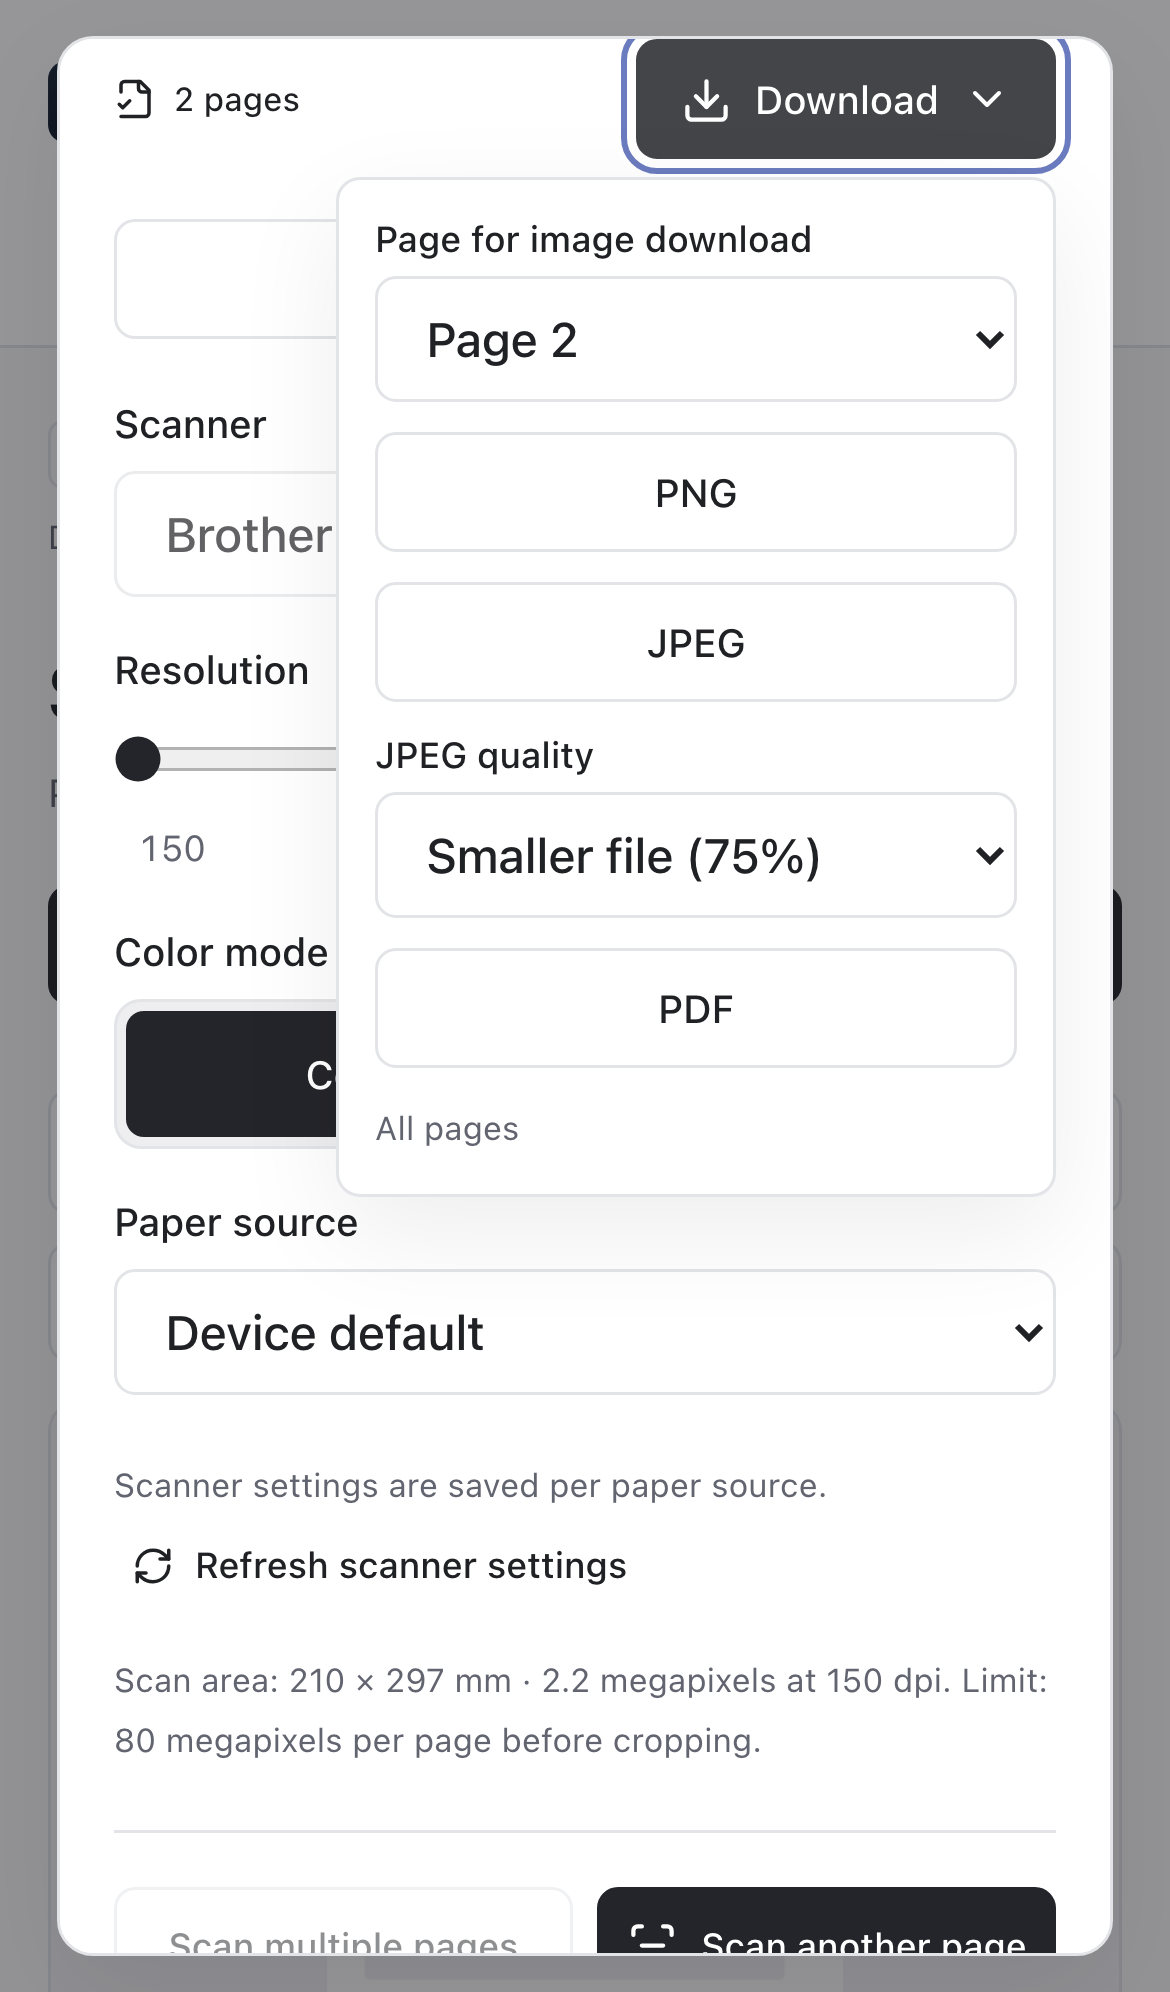
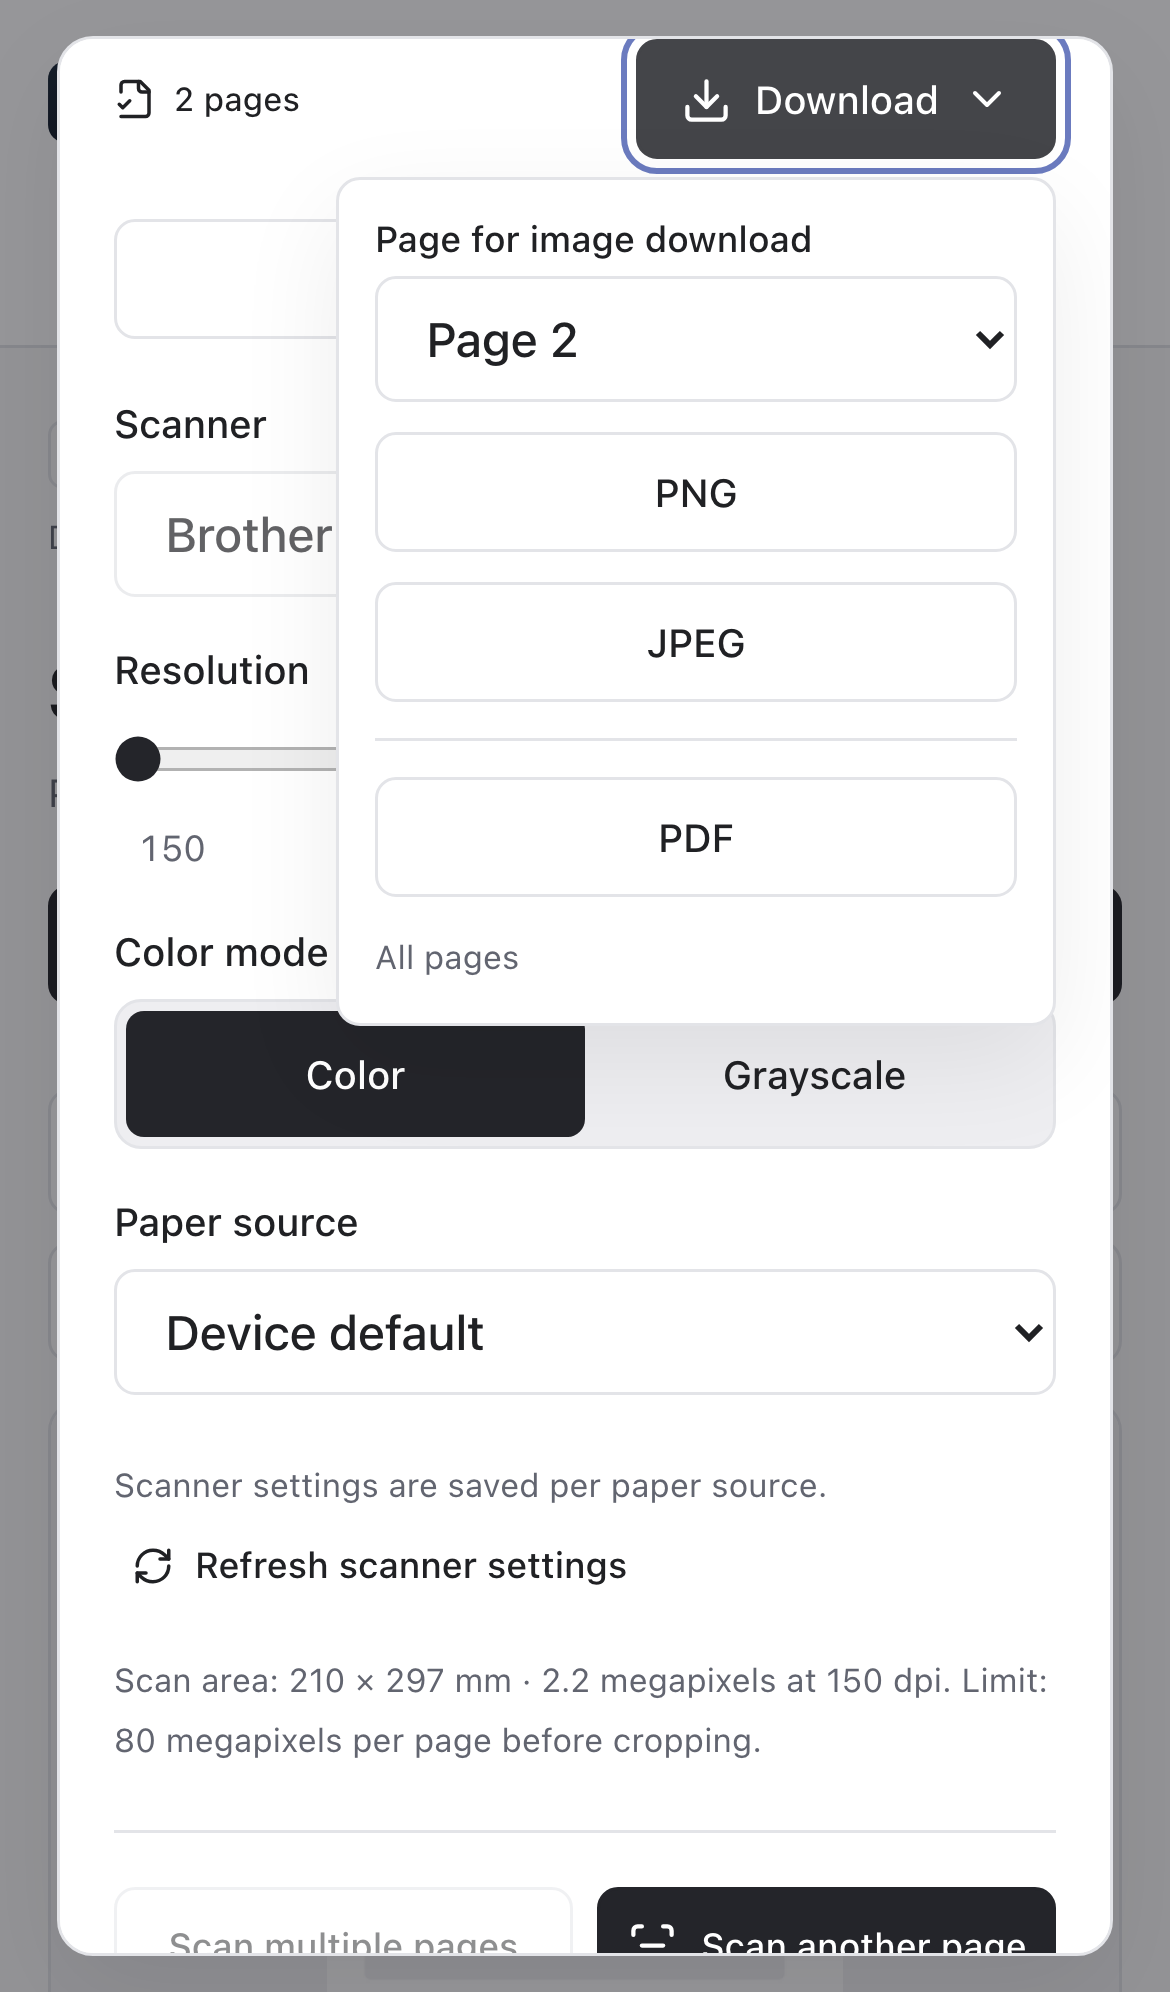
ui: simplify scan download options and separate PDF export

Changed region(s): [[0.2769, 0.3735, 0.8923, 0.5914]]

diff --git a/apps/client/src/ScanDownload.tsx b/apps/client/src/ScanDownload.tsx
@@ -7,7 +7,6 @@ import s from './App.module.css';
 export function ScanDownload({ job, disabled }: { job: Job; disabled: boolean }) {
   const [open, setOpen] = useState(false);
   const [selected, setSelected] = useState('');
-  const [quality, setQuality] = useState('90');
   const root = useRef<HTMLDivElement>(null);
   const button = useRef<HTMLButtonElement>(null);
   const id = useId();
@@ -73,23 +72,14 @@ export function ScanDownload({ job, disabled }: { job: Job; disabled: boolean })
             <a
               className={s.secondary}
               href={
-                disabled
-                  ? undefined
-                  : `/api/scans/${job.id}/pages/${pageId}/export?format=jpeg&quality=${quality}`
+                disabled ? undefined : `/api/scans/${job.id}/pages/${pageId}/export?format=jpeg`
               }
               download
               aria-label={t('Download JPEG')}
             >
               JPEG
             </a>
-            <label>
-              {t('JPEG quality')}
-              <select value={quality} onChange={(event) => setQuality(event.target.value)}>
-                <option value="90">{t('High (90%)')}</option>
-                <option value="75">{t('Smaller file (75%)')}</option>
-                <option value="100">{t('Maximum (100%)')}</option>
-              </select>
-            </label>
+            <hr className={s.scanDownloadDivider} />
           </>
         )}
         <a

diff --git a/e2e/scan-image-download.spec.ts b/e2e/scan-image-download.spec.ts
@@ -32,7 +32,6 @@ test('download dropdown exports a selected page or the full PDF (demo scanner)',
   await expect(page.getByRole('dialog')).toBeVisible();
   await button.click();
   await page.getByLabel('Page for image download').selectOption({ label: 'Page 2' });
-  await page.getByLabel('JPEG quality').selectOption('75');
   await page.screenshot({ path: `test-results/${info.project.name}-scan-download.png` });
   const axe = await new AxeBuilder({ page }).analyze();
   expect(axe.violations.filter((v) => ['serious', 'critical'].includes(v.impact ?? ''))).toEqual(

diff --git a/apps/client/src/App.module.css b/apps/client/src/App.module.css
@@ -2140,3 +2140,10 @@
   gap: 5px;
   font-size: 12px;
 }
+
+.scanDownloadDivider {
+  width: 100%;
+  margin: 2px 0;
+  border: 0;
+  border-top: 1px solid var(--line);
+}

diff --git a/docs/usage.md b/docs/usage.md
@@ -32,7 +32,7 @@ Single-sided, long-edge duplex, and short-edge duplex are offered only when the 
 
 Review, crop, rotate, reorder, or remove scanned pages, download or print the PDF, or scan another page. A scan must keep at least one page; delete the scan from Scans to remove the entire document. The sample document is clearly marked as simulated; hardware mode uses the actual scanner output. See the multi-page editor with bounded thumbnails on [desktop](images/scan-thumbnails.png) and [mobile](images/scan-thumbnails-mobile.png).
 
-Use the **Download** button and its arrow to choose **PNG**, **JPEG**, or **PDF**. PNG and JPEG export one selected page with its saved crop and rotation at full resolution; choose the page in the dropdown for multi-page scans. PNG is lossless and preserves transparency. JPEG uses a white background and offers 75%, 90% (default), or 100% quality. PDF downloads the entire document. Image filenames contain the scan ID and current page number. Exports leave the original scan and PDF unchanged and follow the same access and expiry rules. See the download choices on [desktop](images/scan-download.png) and [mobile](images/scan-download-mobile.png).
+Use the **Download** button and its arrow to choose **PNG**, **JPEG**, or **PDF**. PNG and JPEG export one selected page with its saved crop and rotation at full resolution; choose the page in the dropdown for multi-page scans. PNG is lossless and preserves transparency. JPEG uses a white background and a fixed 90% quality. PDF downloads the entire document. Image filenames contain the scan ID and current page number. Exports leave the original scan and PDF unchanged and follow the same access and expiry rules. See the download choices on [desktop](images/scan-download.png) and [mobile](images/scan-download-mobile.png).
 
 Collect up to 100 scanned pages in one PDF. **Scan another page** appends one page; select a scanner-advertised ADF or duplex ADF source and use **Scan multiple pages** to read a feeder batch. Rotate each page clockwise in 90° steps and reorder by dragging or with the arrow buttons; changes are saved automatically. Reopen the scan to add or edit pages. New scan PDFs preserve physical page dimensions, including crops and pages appended at different resolutions; see [legacy scan sizing](hardware.md#scanners). Failed follow-up scans keep the previously saved document.
 
